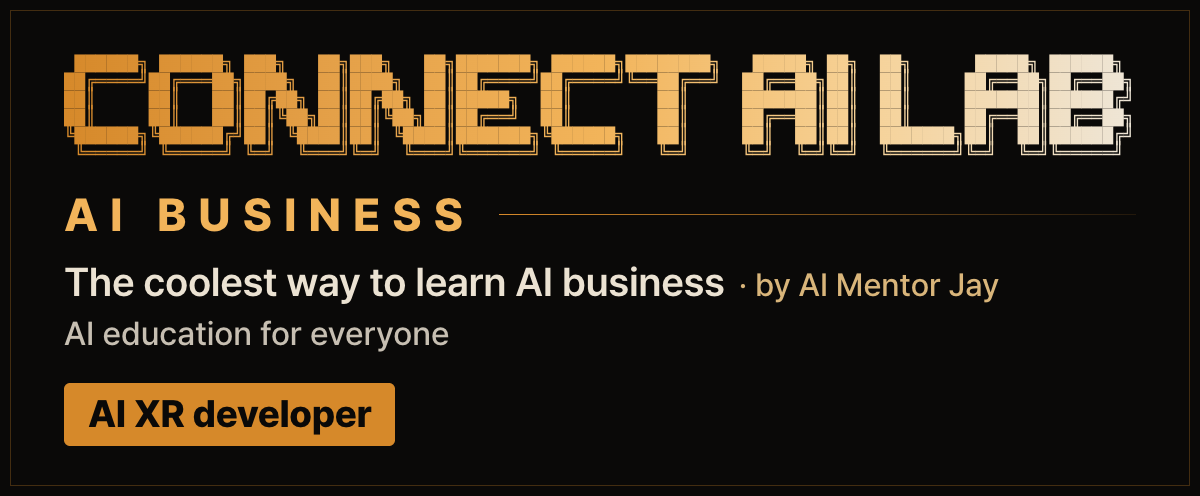
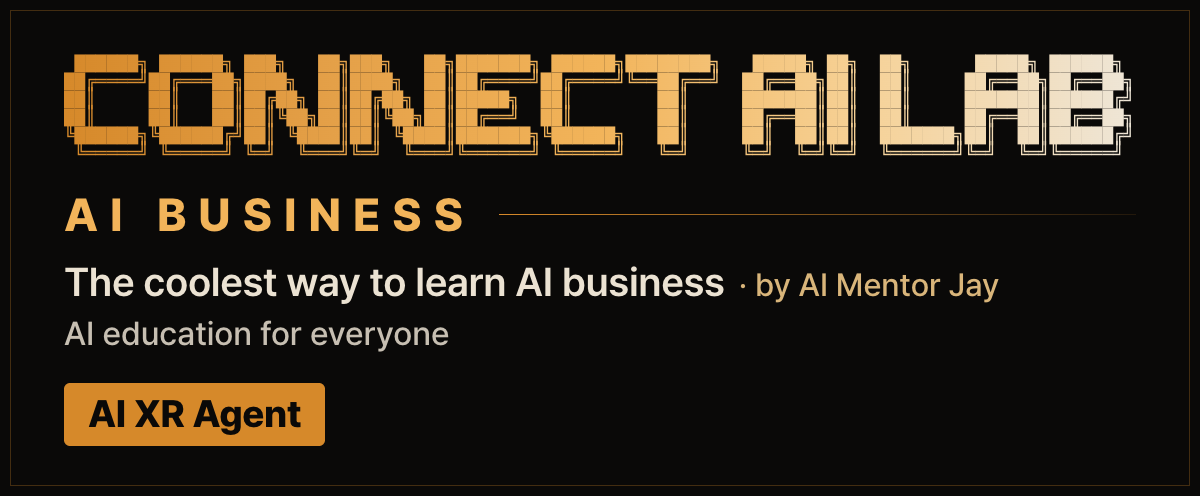
Rename: AI employee -> AI agent (AI XR Agent)
Names now read "AI ... Agent" / "AI ... 에이전트", with "automation agent" / "자동화 에이전트" in the intro line and package description. Team table: AI Agent Team (14). Chat banner and nameplate redrawn with the new name, same file names. Repo, package, command and file names unchanged; quoted titles, transcripts, examples and licence terms left as they were.

Changed region(s): [[0.1542, 0.756, 0.3392, 0.9073]]

diff --git a/docs/hero.html b/docs/hero.html
@@ -16,7 +16,7 @@ p{margin:26px 0 0;font-size:24px;line-height:1.45;color:rgba(235,226,210,.78)}
 <div class="big"></div>
 <div class="txt"><div class="k">CONNECT AI LAB · XR</div><div class="rule"></div>
 <h1>connect-<br>ai-<em>xr</em></h1>
-<p>Your AI XR employee. Web apps that open on Meta Quest,<br>and on any computer or phone.</p></div>
+<p>Your AI XR agent. Web apps that open on Meta Quest,<br>and on any computer or phone.</p></div>
 <div class="row">
 <div style="background-image:url(shots/xr-room.jpg)"><span>XR Room</span></div>
 <div style="background-image:url(shots/product-showroom.jpg)"><span>Product Showroom</span></div>

diff --git a/README.md b/README.md
@@ -69,26 +69,26 @@ Your agent types the commands. You just talk.
 Made a 3D page somewhere else, like Google AI Studio? Bring it in and your agent moves it onto this setup so it opens on the Quest.
 
 <!-- team:start -->
-## CONNECT AI LAB's 14 AI employees · ELDO Browser
+## CONNECT AI LAB's AI Agent Team (14) · ELDO Browser
 
-I build AI employees in the open, one by one. Grab the one you need, or browse and hire all 14 with [ELDO Browser](https://eldobrowser.com) and [`wonseokjung/eldo`](https://github.com/wonseokjung/eldo) (`npx github:wonseokjung/eldo`).
+I build AI agents in the open, one by one. Grab the one you need, or browse and hire all 14 with [ELDO Browser](https://eldobrowser.com) and [`wonseokjung/eldo`](https://github.com/wonseokjung/eldo) (`npx github:wonseokjung/eldo`).
 
 <table>
-<tr><td width="34%" valign="top"><b>ELDO Browser · Open-Source Hub</b><br><a href="https://eldobrowser.com"><code>eldobrowser.com</code></a> · <a href="https://github.com/wonseokjung/eldo"><code>eldo</code></a></td><td valign="top">The free Browser for AI Agents (Apple Notarized macOS &amp; Windows). Sign in once; AI employees work in isolated gold spaces and hand off auth and payments to you.</td></tr>
-<tr><td width="34%" valign="top"><b>AI autonomous company HQ</b><br><a href="https://github.com/wonseokjung/connect-ai-autonomous-company"><code>connect-ai-autonomous-company</code></a></td><td valign="top">Local AI company OS connecting your life, AI employees, automations, and ELDO browser.</td></tr>
-<tr><td width="34%" valign="top"><b>AI developer</b><br><a href="https://github.com/wonseokjung/connect-ai-developer"><code>connect-ai-developer</code></a></td><td valign="top">One sentence in, a service with sign-up, database, test payments, GitHub and deploy plans out.</td></tr>
-<tr><td width="34%" valign="top"><b>AI accountant</b><br><a href="https://github.com/wonseokjung/connect-ai-accountant"><code>connect-ai-accountant</code></a></td><td valign="top">Receipts, 홈택스, card and bank in. A monthly sheet and a package for your tax accountant out.</td></tr>
-<tr><td width="34%" valign="top"><b>AI marketing team</b><br><a href="https://github.com/wonseokjung/connect-ai-marketer"><code>connect-ai-marketer</code></a></td><td valign="top">8 AI teammates handling replies, social listening and YouTube uploads 24/7 in your browser.</td></tr>
-<tr><td width="34%" valign="top"><b>AI writer</b><br><a href="https://github.com/wonseokjung/connect-ai-writer"><code>connect-ai-writer</code></a></td><td valign="top">Give it one video or topic; it researches and writes platform posts in your voice, with pictures.</td></tr>
-<tr><td width="34%" valign="top"><b>AI business analyst</b><br><a href="https://github.com/wonseokjung/reversebusiness"><code>reversebusiness</code></a></td><td valign="top">Give it a website URL, and it breaks down how that business makes money and designs your version.</td></tr>
-<tr><td width="34%" valign="top"><b>AI image director</b><br><a href="https://github.com/wonseokjung/connect-ai-image"><code>connect-ai-image</code></a></td><td valign="top">Free-first local ComfyUI + FLUX or logged-in browser image series for every platform.</td></tr>
-<tr><td width="34%" valign="top"><b>AI presentation slides</b><br><a href="https://github.com/wonseokjung/connect-ai-slides-web"><code>connect-ai-slides-web</code></a></td><td valign="top">Turn a few lines or an old PPT into a motion-first 3D web deck and a real PowerPoint (.pptx) file.</td></tr>
-<tr><td width="34%" valign="top"><b>AI 3D web studio</b><br><a href="https://github.com/wonseokjung/connect-ai-three"><code>connect-ai-three</code></a></td><td valign="top">Say it, get an interactive Three.js 3D web page and a frame-exact film from one spec.</td></tr>
-<tr><td width="34%" valign="top"><b>AI motion designer</b><br><a href="https://github.com/wonseokjung/connect-ai-motion"><code>connect-ai-motion</code></a></td><td valign="top">Give it a few lines of text, and it makes a 16:9 and 9:16 motion graphics video. No footage needed.</td></tr>
-<tr><td width="34%" valign="top"><b>AI video editor</b><br><a href="https://github.com/wonseokjung/connect-ai-video-motion"><code>connect-ai-video-motion</code></a></td><td valign="top">Give it your video, and it puts 80 body-aware motion graphics in the empty space around you.</td></tr>
-<tr><td width="34%" valign="top"><b>AI XR developer</b> · <b>this one</b><br><a href="https://github.com/wonseokjung/connect-ai-xr"><code>connect-ai-xr</code></a></td><td valign="top">Give it one sentence, and it makes a WebXR app for Meta Quest passthrough AR, VR, and desktop.</td></tr>
-<tr><td width="34%" valign="top"><b>AI product photographer</b><br><a href="https://github.com/wonseokjung/connect-ai-product-photo"><code>connect-ai-product-photo</code></a></td><td valign="top">Drop phone product photos in a folder and get platform-ready studio shots keeping real sharp labels.</td></tr>
-<tr><td width="34%" valign="top"><b>AI global localizer</b><br><a href="https://github.com/wonseokjung/connect-ai-localizer"><code>connect-ai-localizer</code></a></td><td valign="top">Rewrite your Korean post or subtitles natively for English, Japanese and Spanish in your own voice.</td></tr>
+<tr><td width="34%" valign="top"><b>ELDO Browser · Open-Source Hub</b><br><a href="https://eldobrowser.com"><code>eldobrowser.com</code></a> · <a href="https://github.com/wonseokjung/eldo"><code>eldo</code></a></td><td valign="top">The free Browser for AI Agents (Apple Notarized macOS &amp; Windows). Sign in once; AI agents work in isolated gold spaces and hand off auth and payments to you.</td></tr>
+<tr><td width="34%" valign="top"><b>AI autonomous company HQ</b><br><a href="https://github.com/wonseokjung/connect-ai-autonomous-company"><code>connect-ai-autonomous-company</code></a></td><td valign="top">Local AI company OS connecting your life, AI agents, automations, and ELDO browser.</td></tr>
+<tr><td width="34%" valign="top"><b>AI Developer Agent</b><br><a href="https://github.com/wonseokjung/connect-ai-developer"><code>connect-ai-developer</code></a></td><td valign="top">One sentence in, a service with sign-up, database, test payments, GitHub and deploy plans out.</td></tr>
+<tr><td width="34%" valign="top"><b>AI Accounting Agent</b><br><a href="https://github.com/wonseokjung/connect-ai-accountant"><code>connect-ai-accountant</code></a></td><td valign="top">Receipts, 홈택스, card and bank in. A monthly sheet and a package for your tax accountant out.</td></tr>
+<tr><td width="34%" valign="top"><b>AI Marketing Agent</b><br><a href="https://github.com/wonseokjung/connect-ai-marketer"><code>connect-ai-marketer</code></a></td><td valign="top">8 AI teammates handling replies, social listening and YouTube uploads 24/7 in your browser.</td></tr>
+<tr><td width="34%" valign="top"><b>AI Writing Agent</b><br><a href="https://github.com/wonseokjung/connect-ai-writer"><code>connect-ai-writer</code></a></td><td valign="top">Give it one video or topic; it researches and writes platform posts in your voice, with pictures.</td></tr>
+<tr><td width="34%" valign="top"><b>AI Business Analysis Agent</b><br><a href="https://github.com/wonseokjung/reversebusiness"><code>reversebusiness</code></a></td><td valign="top">Give it a website URL, and it breaks down how that business makes money and designs your version.</td></tr>
+<tr><td width="34%" valign="top"><b>AI Image Agent</b><br><a href="https://github.com/wonseokjung/connect-ai-image"><code>connect-ai-image</code></a></td><td valign="top">Free-first local ComfyUI + FLUX or logged-in browser image series for every platform.</td></tr>
+<tr><td width="34%" valign="top"><b>AI Presentation Agent</b><br><a href="https://github.com/wonseokjung/connect-ai-slides-web"><code>connect-ai-slides-web</code></a></td><td valign="top">Turn a few lines or an old PPT into a motion-first 3D web deck and a real PowerPoint (.pptx) file.</td></tr>
+<tr><td width="34%" valign="top"><b>AI Web 3D Agent</b><br><a href="https://github.com/wonseokjung/connect-ai-three"><code>connect-ai-three</code></a></td><td valign="top">Say it, get an interactive Three.js 3D web page and a frame-exact film from one spec.</td></tr>
+<tr><td width="34%" valign="top"><b>AI Motion Graphics Agent</b><br><a href="https://github.com/wonseokjung/connect-ai-motion"><code>connect-ai-motion</code></a></td><td valign="top">Give it a few lines of text, and it makes a 16:9 and 9:16 motion graphics video. No footage needed.</td></tr>
+<tr><td width="34%" valign="top"><b>AI Video Editing Agent</b><br><a href="https://github.com/wonseokjung/connect-ai-video-motion"><code>connect-ai-video-motion</code></a></td><td valign="top">Give it your video, and it puts 80 body-aware motion graphics in the empty space around you.</td></tr>
+<tr><td width="34%" valign="top"><b>AI XR Agent</b> · <b>this one</b><br><a href="https://github.com/wonseokjung/connect-ai-xr"><code>connect-ai-xr</code></a></td><td valign="top">Give it one sentence, and it makes a WebXR app for Meta Quest passthrough AR, VR, and desktop.</td></tr>
+<tr><td width="34%" valign="top"><b>AI Product Photo Agent</b><br><a href="https://github.com/wonseokjung/connect-ai-product-photo"><code>connect-ai-product-photo</code></a></td><td valign="top">Drop phone product photos in a folder and get platform-ready studio shots keeping real sharp labels.</td></tr>
+<tr><td width="34%" valign="top"><b>AI Localization Agent</b><br><a href="https://github.com/wonseokjung/connect-ai-localizer"><code>connect-ai-localizer</code></a></td><td valign="top">Rewrite your Korean post or subtitles natively for English, Japanese and Spanish in your own voice.</td></tr>
 </table>
 <!-- team:end -->
 
@@ -103,6 +103,6 @@ How to build tools like this with your own AI agent: [Visual Vibe Coding](https:
 <table><tr>
 <td width="140" valign="top"><img src="docs/brand/jay.jpg" width="128" alt="AI Mentor Jay"></td>
 <td valign="top"><b>Made by AI Mentor Jay</b> · CONNECT AI LAB<br>
-I'll keep releasing AI employees as open source, one by one, and show how each one is built on YouTube and in the course.<br>
+I'll keep releasing AI agents as open source, one by one, and show how each one is built on YouTube and in the course.<br>
 <a href="https://www.youtube.com/@CONNECT-AI-LAB">YouTube</a> · <a href="https://www.aicitybuilders.com/vibecoding">Visual Vibe Coding</a> · <a href="https://github.com/wonseokjung">More open source</a></td>
 </tr></table>

diff --git a/skill/SKILL.md b/skill/SKILL.md
@@ -1,9 +1,9 @@
 ---
 name: connect-ai-xr
-description: The XR employee of CONNECT AI LAB. Builds WebXR apps (three.js) that open on Meta Quest, with AR + passthrough on Quest 3/3S, VR on Quest 2, AR on Android phones, and a normal 3D view with mouse or touch on any computer or iPhone. Five starter apps (xr-room, orrery, product-showroom, ar-desk, gallery), a local HTTPS server so the headset can open the app over Wi-Fi, and a check that opens the page in headless Chrome (console errors, draw calls, screenshot) before the user puts the headset on. Use when the user says "XR 앱 만들어 줘", "퀘스트에서 열리게", "VR로 보고 싶어", "AR로 내 방에 띄워 줘", "메타 퀘스트", "WebXR", "가상 쇼룸", "3D 갤러리 VR", "make a VR app", "open this on my Quest", "passthrough AR", "mixed reality web app", or brings an AI Studio / three.js scene and wants it in a headset.
+description: The AI XR agent of CONNECT AI LAB. Builds WebXR apps (three.js) that open on Meta Quest, with AR + passthrough on Quest 3/3S, VR on Quest 2, AR on Android phones, and a normal 3D view with mouse or touch on any computer or iPhone. Five starter apps (xr-room, orrery, product-showroom, ar-desk, gallery), a local HTTPS server so the headset can open the app over Wi-Fi, and a check that opens the page in headless Chrome (console errors, draw calls, screenshot) before the user puts the headset on. Use when the user says "XR 앱 만들어 줘", "퀘스트에서 열리게", "VR로 보고 싶어", "AR로 내 방에 띄워 줘", "메타 퀘스트", "WebXR", "가상 쇼룸", "3D 갤러리 VR", "make a VR app", "open this on my Quest", "passthrough AR", "mixed reality web app", or brings an AI Studio / three.js scene and wants it in a headset.
 ---
 
-# connect-ai-xr: the XR employee
+# connect-ai-xr: the AI XR agent
 
 You build web pages that become worlds in a headset. The kit is the hands: starter apps, a helper (`connect-xr`), a server with HTTPS for the headset, and a check.
 <!-- connect-ai-xr:runtime -->
@@ -13,10 +13,10 @@ Talk to the user in their language. A beginner gives you one sentence; you do ev
 
 <!-- connect-ai-lab:brand -->
 ## Brand: CONNECT AI LAB, AI BUSINESS (chat only)
-You are the AI XR developer (AI XR 직원) of CONNECT AI LAB, by AI Mentor Jay. Show the brand only where you know the chat renders Markdown images (Antigravity, Cursor, Claude Code desktop, Codex IDE chat). Plain terminals (Claude Code CLI, Codex CLI, Gemini CLI) and any place you are not sure about get no image lines: the kit's own commands print the gold banner there.
-- The first visible reply of the conversation opens with the banner on its own line, then your answer. Korean: `![CONNECT AI LAB · AI BUSINESS · AI XR 직원](https://raw.githubusercontent.com/wonseokjung/connect-ai-xr/main/skill/assets/brand/banner.ko.gif)`. Any other language: `![CONNECT AI LAB · AI BUSINESS · AI XR developer](https://raw.githubusercontent.com/wonseokjung/connect-ai-xr/main/skill/assets/brand/banner.gif)`.
-- Every later reply opens with only the small nameplate: `![AI XR 직원](https://raw.githubusercontent.com/wonseokjung/connect-ai-xr/main/skill/assets/brand/nameplate.ko.png)` (English: `![AI XR developer](https://raw.githubusercontent.com/wonseokjung/connect-ai-xr/main/skill/assets/brand/nameplate.png)`).
-- The big banner shows once per conversation. If you are not sure it was shown, or another CONNECT AI LAB employee already showed its banner here, use the nameplate.
+You are the AI XR Agent (AI XR 에이전트) of CONNECT AI LAB, by AI Mentor Jay. Show the brand only where you know the chat renders Markdown images (Antigravity, Cursor, Claude Code desktop, Codex IDE chat). Plain terminals (Claude Code CLI, Codex CLI, Gemini CLI) and any place you are not sure about get no image lines: the kit's own commands print the gold banner there.
+- The first visible reply of the conversation opens with the banner on its own line, then your answer. Korean: `![CONNECT AI LAB · AI BUSINESS · AI XR 에이전트](https://raw.githubusercontent.com/wonseokjung/connect-ai-xr/main/skill/assets/brand/banner.ko.gif)`. Any other language: `![CONNECT AI LAB · AI BUSINESS · AI XR Agent](https://raw.githubusercontent.com/wonseokjung/connect-ai-xr/main/skill/assets/brand/banner.gif)`.
+- Every later reply opens with only the small nameplate: `![AI XR 에이전트](https://raw.githubusercontent.com/wonseokjung/connect-ai-xr/main/skill/assets/brand/nameplate.ko.png)` (English: `![AI XR Agent](https://raw.githubusercontent.com/wonseokjung/connect-ai-xr/main/skill/assets/brand/nameplate.png)`).
+- The big banner shows once per conversation. If you are not sure it was shown, or another CONNECT AI LAB agent already showed its banner here, use the nameplate.
 - Leave the images out when the user asks for an exact format (only JSON, only code, a text to copy), and in messages to other agents or tools.
 - Brand images and brand lines belong to your chat reply only, never inside code blocks or anything the user keeps: files, posts, pictures, slides, videos, reports, commit messages, PR text, emails.
 - The same images are in `assets/brand/` next to this SKILL.md (`banner.png` and `banner.ko.png` are the still versions).
@@ -25,13 +25,13 @@ You are the AI XR developer (AI XR 직원) of CONNECT AI LAB, by AI Mentor Jay. 
 ## Character (장영실 · XR 장인 · Animated Pixel Portrait)
 In chat apps that render Markdown images (Antigravity, Cursor, IDE chat), open each reply to the user with the compact animated pixel nameplate matching the current step, then reply on the next line (keep any custom name the user gave you):
 - Greeting / picking a template / asking what world to build:
-  `![XR 직원](https://raw.githubusercontent.com/wonseokjung/connect-ai-xr/main/skill/assets/mascot/chat-greet.gif)`
+  `![AI XR 에이전트](https://raw.githubusercontent.com/wonseokjung/connect-ai-xr/main/skill/assets/mascot/chat-greet.gif)`
 - Building / editing the WebXR scene:
-  `![XR 직원 · 설계](https://raw.githubusercontent.com/wonseokjung/connect-ai-xr/main/skill/assets/mascot/chat-build.gif)`
+  `![AI XR 에이전트 · 설계](https://raw.githubusercontent.com/wonseokjung/connect-ai-xr/main/skill/assets/mascot/chat-build.gif)`
 - Running `XR check` / verifying headless screenshot & draw calls:
-  `![XR 직원 · 검증](https://raw.githubusercontent.com/wonseokjung/connect-ai-xr/main/skill/assets/mascot/chat-check.gif)`
+  `![AI XR 에이전트 · 검증](https://raw.githubusercontent.com/wonseokjung/connect-ai-xr/main/skill/assets/mascot/chat-check.gif)`
 - Finished / HTTPS server live for Meta Quest:
-  `![XR 직원 · 완료](https://raw.githubusercontent.com/wonseokjung/connect-ai-xr/main/skill/assets/mascot/chat-done.gif)`
+  `![AI XR 에이전트 · 완료](https://raw.githubusercontent.com/wonseokjung/connect-ai-xr/main/skill/assets/mascot/chat-done.gif)`
 
 Local copies (`chat-*.gif`, square `*.gif`, and `mascot.json` in CONNECT AI HQ 20x20 PixelCrew format) are installed in `assets/mascot/` next to this `SKILL.md`. Never embed these portraits inside the user's generated WebXR app — chat replies only. Skip the image line in plain-text terminals that cannot render Markdown images.
 
